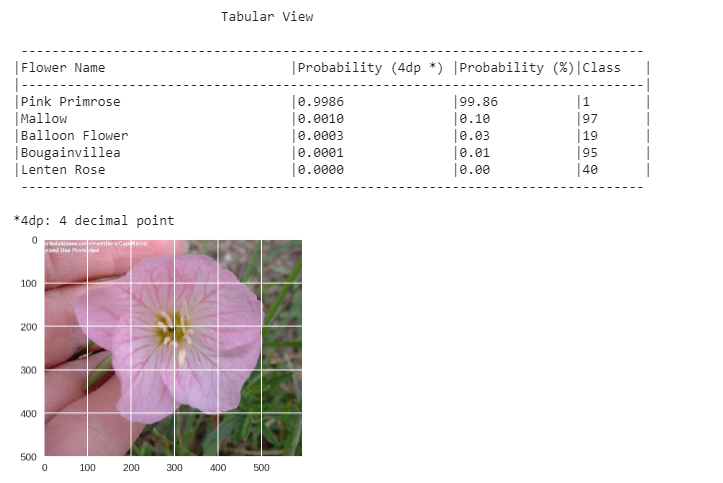
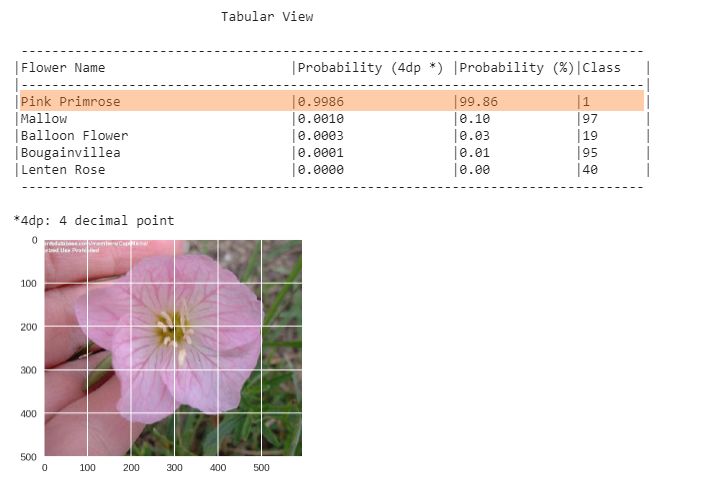
Added new results

Changed region(s): [[0.0304, 0.1863, 0.9129, 0.2484]]

diff --git a/README.md b/README.md
@@ -231,12 +231,27 @@ Flower Displayed below are from following class: **Pink Primrose**
 
 **Note**: As we can see, based on input, one may need to perform various passes to *acheive* higher accuracy, change models, learn_rate, etc.
 
+
+Noticeable result **difference**:
+
+*Flower Name*: Pink Primrose
+
+| Model Used      | Accuracy (%)     | Result |
+| :-------------- | :--------------: | :----:|
+| densenet121     | **89.09**        | ![pink_primrose_lower_accuracy](/assets/AI_nanodegree/pink_primrose.PNG) |
+| densenet161     | **99.28**        | ![pink_primrose_higher_accuracy](/assets/99_28/pink_primrose.PNG) |
+
+**Note**: We can see, that the model with **89.09 %** accuracy *cannot* correctly determine, which flower is that. While model with **99.28 %** clearly shows higher *probability* for correct flower name.
+
+*Further prediction results*:
+
 Prediction Result for **densenet121** model, with **89.09%** accuracy:
 
-![]()
-![]()
-![]()
-![]()
+| Name              | 89.09 (%)                                                          | 99.28 (%)                                             |
+| :---------------- | :----------------------------------------------------------------: | :----------------------------------------------------:|
+| Barbeton Daisy    | ![barbeton_daisy](/assets/AI_nanodegree/barbeton_daisy.PNG)        | ![barbeton_daisy](/assets/99_28/barbeton_daisy.PNG)   |
+| Trumpet Creeper   | ![trumpet_creeper](/assets/AI_nanodegree/trumpet_creeper.PNG)      | ![trumpet_creeper](/assets/99_28/trumpet_creeper.PNG) |
+| Globe Thistle     | ![globe_thistle](/assets/AI_nanodegree/globe_thistle.PNG)          | ![globe_thistle](/assets/99_28/globe_thistle.PNG)     |
 
 ---
 
@@ -246,15 +261,6 @@ Prediction Result for **densenet161** model, with **99.28%** accuracy:
 ![]()
 ![]()
 ![]()
-
----
-
-Noticeable result **difference**:
-
-| Model Used      | Accuracy (%) | Result |
-| :-------------- | :----------: | :----:|
-| densenet121     | 89.09        | ![](/assets/AI_nanodegree/pink_primrose.PNG) |
-| densenet161     | 99.28        | ![](/assets/99_28/pink_primrose.PNG) |
 
 ---
 
